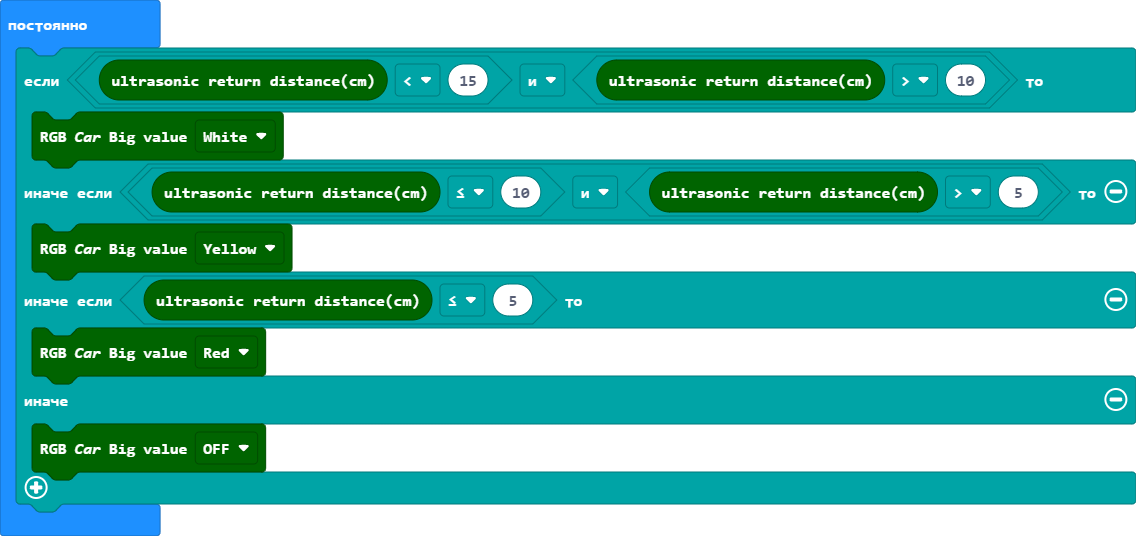
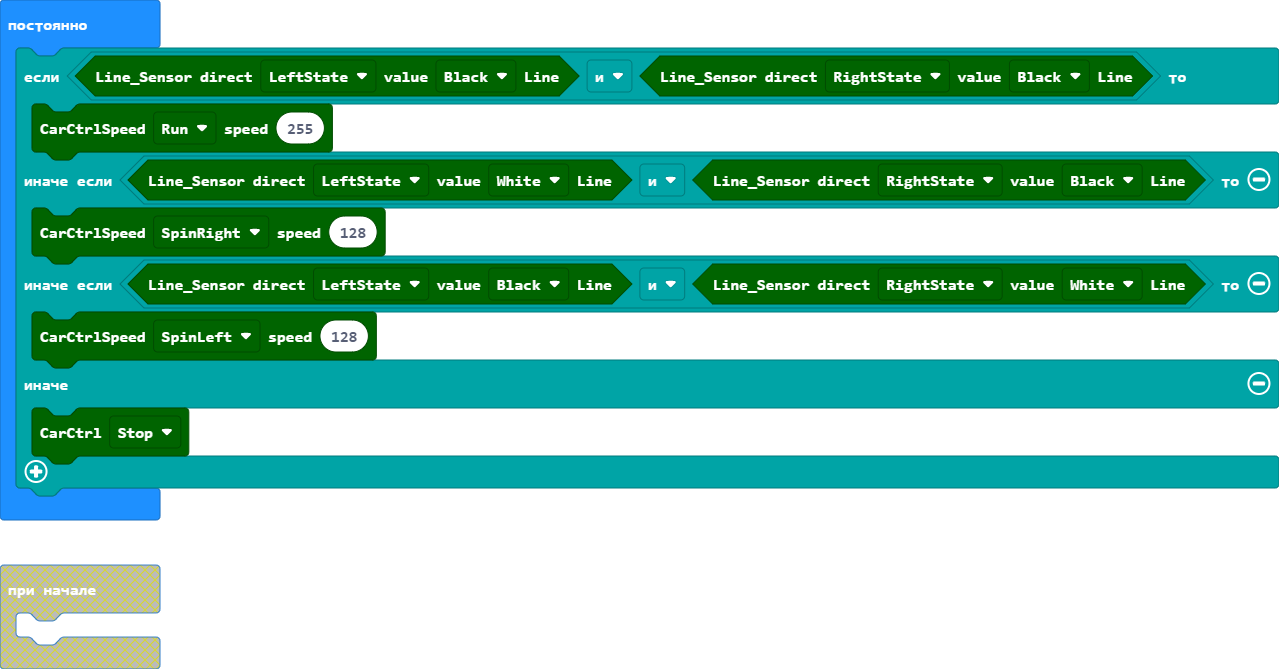
добавил движение по линии

diff --git a/main.ts b/main.ts
@@ -9,3 +9,14 @@ basic.forever(function () {
         Tinybit.RGB_Car_Big(Tinybit.enColor.OFF)
     }
 })
+basic.forever(function () {
+    if (Tinybit.Line_Sensor(Tinybit.enPos.LeftState, Tinybit.enLineState.Black) && Tinybit.Line_Sensor(Tinybit.enPos.RightState, Tinybit.enLineState.Black)) {
+        Tinybit.CarCtrlSpeed(Tinybit.CarState.Car_Run, 255)
+    } else if (Tinybit.Line_Sensor(Tinybit.enPos.LeftState, Tinybit.enLineState.White) && Tinybit.Line_Sensor(Tinybit.enPos.RightState, Tinybit.enLineState.Black)) {
+        Tinybit.CarCtrlSpeed(Tinybit.CarState.Car_SpinRight, 128)
+    } else if (Tinybit.Line_Sensor(Tinybit.enPos.LeftState, Tinybit.enLineState.Black) && Tinybit.Line_Sensor(Tinybit.enPos.RightState, Tinybit.enLineState.White)) {
+        Tinybit.CarCtrlSpeed(Tinybit.CarState.Car_SpinLeft, 128)
+    } else {
+        Tinybit.CarCtrl(Tinybit.CarState.Car_Stop)
+    }
+})
